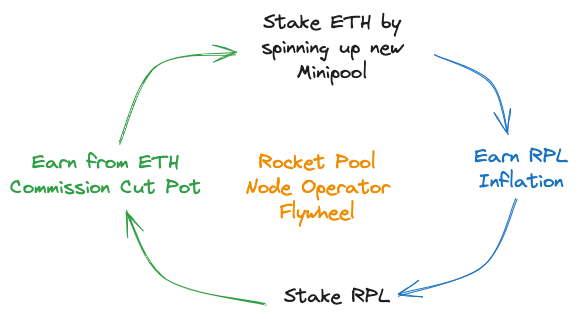
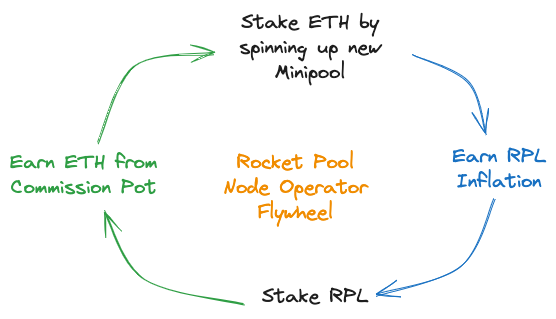
rename to commission pot instead of commission cut

diff --git a/CohesiveProposal.md b/CohesiveProposal.md
@@ -18,9 +18,9 @@ Defer to Valdorff’s recommendations here, using `Aggressive [alt]` from [bond_
 Mostly building off of [commission_cut](/initialProposalSubmission.md) and Valdorff's [direct_capture](https://github.com/Valdorff/rp-thoughts/blob/main/2023_11_rapid_research_incubator/direct_capture.md) with 4 main modifications:
 
 1. Change RPL Inflation revenue distribution to scale linearly with Node Operator Borrowed Eth, see **"RPL Inflation Revenue to NO"** below
-1. Change ETH revenue to RPL Commission Pot distribution to scale linearly with Staked RPL, see **"ETH Revenue to RPL Commission Pot"** below
+1. Change ETH revenue to Commission Pot distribution to scale linearly with Staked RPL, see **"ETH Revenue to Commission Pot"** below
 
-| RPL Inflation Revenue to NO                            | ETH Revenue to RPL Commission Pot                              |
+| RPL Inflation Revenue to NO                            | ETH Revenue to Commission Pot                              |
 | ------------------------------------------------------ | -------------------------------------------------------------- |
 | ![RPLinflationRewards](/plots/RPLinflationRewards.png) | ![EthCommissionCutRewards](/plots/EthCommissionCutRewards.png) |
 
